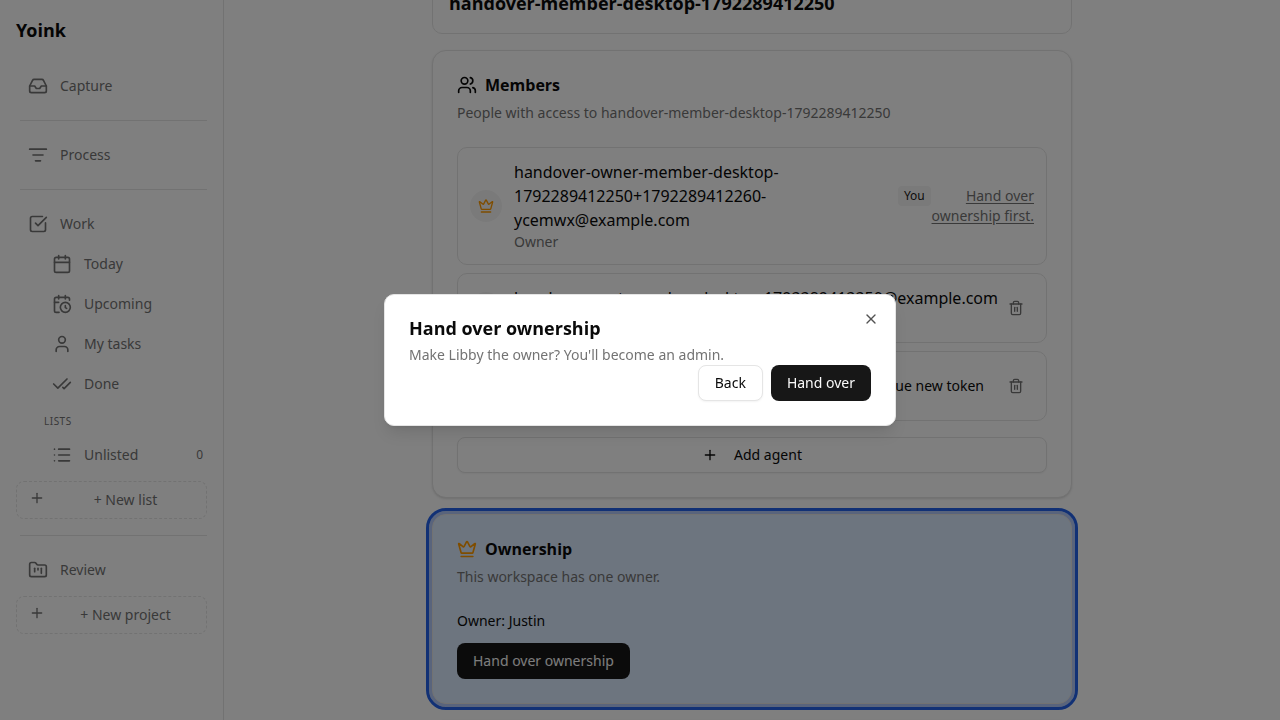
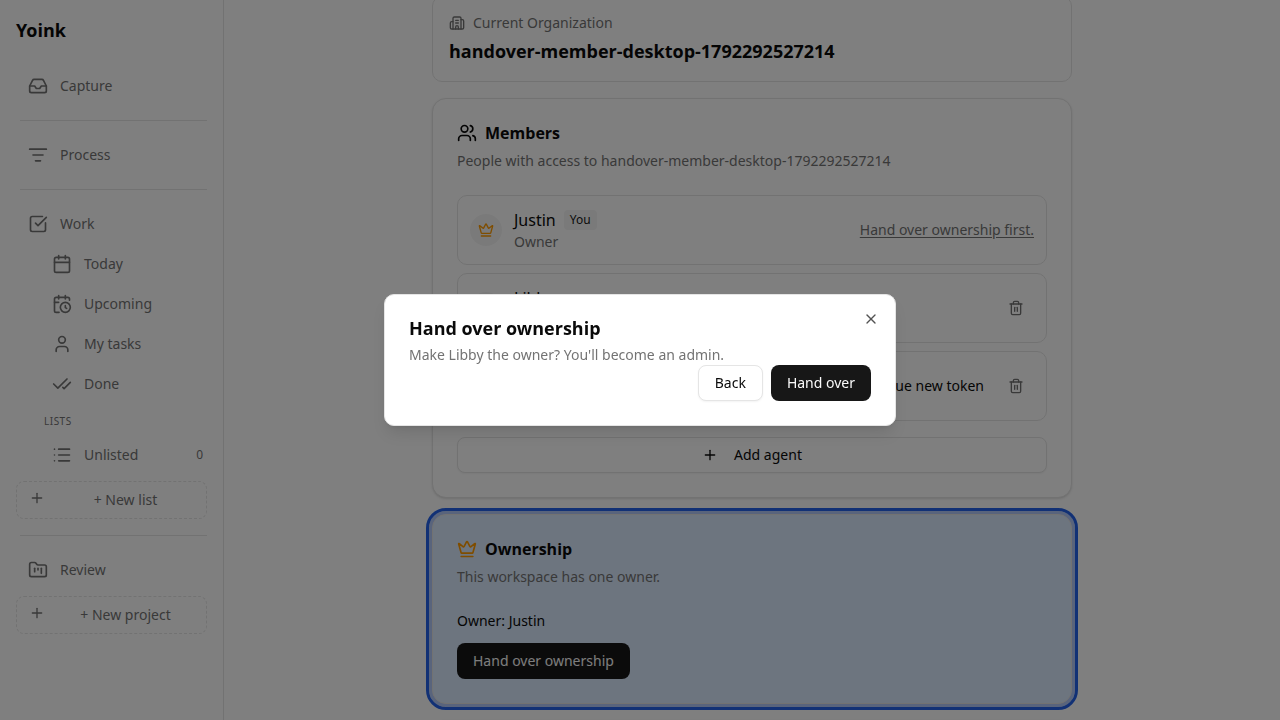
Polly: owner-row viewers, not-member copy, real member names.
The owner sees Hand over ownership first. on their row; everyone else
sees The owner can't be removed. TARGET_NOT_WORKSPACE_MEMBER is
That person isn't a member here. Members list shows the same names
the ownership card already read from listMembers.

Changed region(s): [[0.3438, 0.0, 0.6875, 0.3361], [0.6562, 0.2444, 0.8125, 0.3361], [0.6875, 0.3972, 0.7812, 0.4278]]

diff --git a/apps/web/src/components/members-section.tsx b/apps/web/src/components/members-section.tsx
@@ -12,9 +12,13 @@ import {
 import { Crown, Shield, User, Trash2, Loader2, AlertCircle, Users, Bot, Plus, Copy, Check, KeyRound } from 'lucide-react';
 import { Input } from '@yoink/ui-base/components/input';
 import { Label } from '@yoink/ui-base/components/label';
-import { listMembers, removeMember, mintAgent, memberLabel, type Member } from '@/api/auth';
+import { listMembers, removeMember, mintAgent, memberDisplayName, memberLabel, type Member } from '@/api/auth';
 import { tsrOrganizations } from '@/api/client';
-import { HAND_OVER_OWNERSHIP_FIRST_MESSAGE, HANDOVER_OWNERSHIP_PATH } from '@yoink/api-contracts';
+import {
+  HAND_OVER_OWNERSHIP_FIRST_MESSAGE,
+  HANDOVER_OWNERSHIP_PATH,
+  THE_OWNER_CANT_BE_REMOVED_MESSAGE,
+} from '@yoink/api-contracts';
 import { OwnershipCard } from '@/components/ownership-card';
 
 const errorBodyMessage = (body: unknown): string | null => {
@@ -203,7 +207,7 @@ export function MembersSection({
                       </div>
                       <div>
                         <div className="font-medium flex items-center gap-2">
-                          {memberLabel(member)}
+                          {member.kind === 'agent' ? memberLabel(member) : memberDisplayName(member)}
                           {isSelf && (
                             <span className="text-xs px-1.5 py-0.5 rounded bg-secondary text-secondary-foreground">
                               You
@@ -222,18 +226,22 @@ export function MembersSection({
                     </div>
 
                     <div className="flex items-center gap-1">
-                      {member.role === 'owner' && currentUserRole !== 'member' ? (
+                      {member.role === 'owner' ? (
                         <p
                           className="max-w-[14rem] text-right text-sm text-muted-foreground"
                           data-owner-cannot-remove=""
                         >
-                          <a
-                            href={HANDOVER_OWNERSHIP_PATH}
-                            data-handover-link=""
-                            className="underline underline-offset-2"
-                          >
-                            {HAND_OVER_OWNERSHIP_FIRST_MESSAGE}
-                          </a>
+                          {currentUserId === member.userId ? (
+                            <a
+                              href={HANDOVER_OWNERSHIP_PATH}
+                              data-handover-link=""
+                              className="underline underline-offset-2"
+                            >
+                              {HAND_OVER_OWNERSHIP_FIRST_MESSAGE}
+                            </a>
+                          ) : (
+                            THE_OWNER_CANT_BE_REMOVED_MESSAGE
+                          )}
                         </p>
                       ) : null}
                       {canReissue && member.kind === 'agent' && (

diff --git a/packages/acceptance-tests/src/use-cases/owner-handover.test.ts b/packages/acceptance-tests/src/use-cases/owner-handover.test.ts
@@ -57,6 +57,7 @@ usingDrivers(['playwright'] as const, (ctx) => {
         await setViewport(owner, viewport);
         await owner.openOrganizationSettings();
         await owner.shouldSeeOwnershipCard('Justin');
+        await owner.shouldSeeOwnerHandoverLink();
         await owner.frameOwnershipCard();
         await owner.saveWalkthroughScreenshot({ story: WALKTHROUGH_STORY, step: 'card' });
 
@@ -110,6 +111,7 @@ usingDrivers(['playwright'] as const, (ctx) => {
       await member.switchOrganization(org.id);
       await member.openOrganizationSettings();
       await member.shouldNotSeeOwnershipCard();
+      await member.shouldSeeOwnerCannotBeRemoved();
 
       const personal = await ctx.createActor(`personal-${stamp}@example.com`);
       await personal.openOrganizationSettings();
@@ -138,6 +140,8 @@ usingDrivers(['playwright'] as const, (ctx) => {
 
       for (const viewport of ['phone', 'desktop'] as const) {
         await setViewport(owner, viewport);
+        await owner.openOrganizationSettings();
+        await owner.shouldSeeOwnerHandoverLink();
         await owner.tryLeaveOrganizationFromSettings(org.name);
         await owner.saveWalkthroughScreenshot({
           story: WALKTHROUGH_STORY,
@@ -152,6 +156,7 @@ usingDrivers(['playwright'] as const, (ctx) => {
         adminInvite.code,
         `handover-link-admin-${Date.now()}@example.com`
       );
+      await ctx.admin.updateUser(workspaceAdmin.userId, { name: 'Polly' });
       await workspaceAdmin.switchOrganization(org.id);
 
       for (const viewport of ['phone', 'desktop'] as const) {

diff --git a/packages/acceptance-testing/src/drivers/playwright/page-objects.ts b/packages/acceptance-testing/src/drivers/playwright/page-objects.ts
@@ -1,5 +1,8 @@
 import { type Page, type CDPSession, type Locator, expect } from '@playwright/test';
-import { HAND_OVER_OWNERSHIP_FIRST_MESSAGE } from '@yoink/api-contracts';
+import {
+  HAND_OVER_OWNERSHIP_FIRST_MESSAGE,
+  THE_OWNER_CANT_BE_REMOVED_MESSAGE,
+} from '@yoink/api-contracts';
 import type { TaskFilter } from '../../dsl/types.js';
 import { dropPointForOpenTaskSlot } from './open-task-slot-drop.js';
 import {
@@ -654,10 +657,16 @@ export class SettingsPage {
     await expect(this.page.locator('button[title^="Remove "]')).toHaveCount(0);
   }
 
-  async shouldSeeOwnerCannotBeRemoved(): Promise<void> {
+  async shouldSeeOwnerHandoverLink(): Promise<void> {
     const copy = this.page.locator('[data-owner-cannot-remove]');
     await expect(copy).toHaveText(HAND_OVER_OWNERSHIP_FIRST_MESSAGE);
     await expect(copy.locator('[data-handover-link]')).toBeVisible();
+  }
+
+  async shouldSeeOwnerCannotBeRemoved(): Promise<void> {
+    const copy = this.page.locator('[data-owner-cannot-remove]');
+    await expect(copy).toHaveText(THE_OWNER_CANT_BE_REMOVED_MESSAGE);
+    await expect(copy.locator('[data-handover-link]')).toHaveCount(0);
   }
 
   ownershipCard() {

diff --git a/packages/api-contracts/src/schemas/organization.ts b/packages/api-contracts/src/schemas/organization.ts
@@ -18,6 +18,9 @@ export const HANDOVER_OWNERSHIP_PATH = '/settings#ownership';
 /** Anyone removing the owner — dedicated, not INSUFFICIENT_PERMISSIONS */
 export const OWNER_CANNOT_BE_REMOVED_MESSAGE = HAND_OVER_OWNERSHIP_FIRST_MESSAGE;
 
+/** Owner's row in Settings, shown to everyone except the owner. */
+export const THE_OWNER_CANT_BE_REMOVED_MESSAGE = "The owner can't be removed.";
+
 /** Owner leave — reader is a workspace person, not the app admin */
 export const OWNER_MUST_TRANSFER_MESSAGE = HAND_OVER_OWNERSHIP_FIRST_MESSAGE;
 
@@ -27,6 +30,7 @@ export const OWNER_MUST_TRANSFER_MAKE_OWNER_MESSAGE =
 
 export const BOT_CANNOT_TRANSFER_OWNERSHIP_MESSAGE = "Bots can't hand over ownership.";
 export const BOT_CANNOT_BE_OWNER_MESSAGE = "A bot can't be the owner.";
+export const TARGET_NOT_WORKSPACE_MEMBER_MESSAGE = "That person isn't a member here.";
 export const NOT_CURRENT_OWNER_MESSAGE = 'Only the owner can hand over ownership.';
 export const PERSONAL_WORKSPACE_TRANSFER_MESSAGE = "Personal workspaces can't be handed over.";
 export const ALREADY_OWNER_MESSAGE = "You're already the owner.";

diff --git a/apps/api/src/access/domain/organization-errors.ts b/apps/api/src/access/domain/organization-errors.ts
@@ -7,6 +7,7 @@ import {
   OWNER_MUST_TRANSFER_MAKE_OWNER_MESSAGE,
   OWNER_MUST_TRANSFER_MESSAGE,
   PERSONAL_WORKSPACE_TRANSFER_MESSAGE,
+  TARGET_NOT_WORKSPACE_MEMBER_MESSAGE,
 } from '@yoink/api-contracts';
 import type { UserNotFoundError, UserServiceError } from './user-errors.js';
 
@@ -19,6 +20,7 @@ export {
   OWNER_MUST_TRANSFER_MAKE_OWNER_MESSAGE,
   OWNER_MUST_TRANSFER_MESSAGE,
   PERSONAL_WORKSPACE_TRANSFER_MESSAGE,
+  TARGET_NOT_WORKSPACE_MEMBER_MESSAGE,
 };
 
 // ============================================================================
@@ -277,7 +279,7 @@ export const targetNotWorkspaceMemberError = (
   type: 'TARGET_NOT_WORKSPACE_MEMBER',
   userId,
   organizationId,
-  message: 'Owner must already be a member of the workspace',
+  message: TARGET_NOT_WORKSPACE_MEMBER_MESSAGE,
 });
 
 /** Organization must have at least one admin */

diff --git a/apps/api/src/access/domain/decide-set-owner.test.ts b/apps/api/src/access/domain/decide-set-owner.test.ts
@@ -1,5 +1,8 @@
 import { describe, it, expect } from 'vitest';
-import { BOT_CANNOT_BE_OWNER_MESSAGE } from '@yoink/api-contracts';
+import {
+  BOT_CANNOT_BE_OWNER_MESSAGE,
+  TARGET_NOT_WORKSPACE_MEMBER_MESSAGE,
+} from '@yoink/api-contracts';
 import { decideSetOwner } from './decide-set-owner.js';
 import type { OrganizationMembership } from './organization-membership.js';
 import type { User } from './user.js';
@@ -95,6 +98,9 @@ describe('decideSetOwner', () => {
       targetUser: human,
     });
     expect(result.isErr() && result.error.type).toBe('TARGET_NOT_WORKSPACE_MEMBER');
+    if (result.isErr() && result.error.type === 'TARGET_NOT_WORKSPACE_MEMBER') {
+      expect(result.error.message).toBe(TARGET_NOT_WORKSPACE_MEMBER_MESSAGE);
+    }
   });
 
   it('refuses a bot', () => {

diff --git a/apps/api/src/access/application/http-admin-routes.test.ts b/apps/api/src/access/application/http-admin-routes.test.ts
@@ -1,6 +1,9 @@
 import { describe, it, expect, beforeEach } from 'vitest';
 import type { FastifyInstance } from 'fastify';
-import { BOT_CANNOT_BE_OWNER_MESSAGE } from '@yoink/api-contracts';
+import {
+  BOT_CANNOT_BE_OWNER_MESSAGE,
+  TARGET_NOT_WORKSPACE_MEMBER_MESSAGE,
+} from '@yoink/api-contracts';
 import {
   createTestAppFull,
   TEST_ADMIN_PASSWORD,
@@ -478,7 +481,7 @@ describe('admin HTTP routes', () => {
       });
       expect(outsider.statusCode).toBe(400);
       expect(outsider.json().code).toBe('TARGET_NOT_WORKSPACE_MEMBER');
-      expect(outsider.json().message).toMatch(/member/i);
+      expect(outsider.json().message).toBe(TARGET_NOT_WORKSPACE_MEMBER_MESSAGE);
     });
 
     it('switches a member to admin and back when an owner remains', async () => {

diff --git a/apps/api/src/access/application/organization-routes.test.ts b/apps/api/src/access/application/organization-routes.test.ts
@@ -23,6 +23,7 @@ import {
   HANDOVER_OWNERSHIP_PATH,
   NOT_CURRENT_OWNER_MESSAGE,
   PERSONAL_WORKSPACE_TRANSFER_MESSAGE,
+  TARGET_NOT_WORKSPACE_MEMBER_MESSAGE,
   TRANSFER_OWNERSHIP_STORAGE_MESSAGE,
 } from '@yoink/api-contracts';
 import { tokenStorageError } from '../domain/auth-errors.js';
@@ -859,7 +860,7 @@ describe('organization routes', () => {
 
       expect(response.statusCode).toBe(400);
       expect(response.json().code).toBe('TARGET_NOT_WORKSPACE_MEMBER');
-      expect(response.json().message).toBe('Owner must already be a member of the workspace');
+      expect(response.json().message).toBe(TARGET_NOT_WORKSPACE_MEMBER_MESSAGE);
     });
 
     it('returns 401 without authentication', async () => {

diff --git a/apps/api/src/access/domain/decide-transfer-ownership.test.ts b/apps/api/src/access/domain/decide-transfer-ownership.test.ts
@@ -8,6 +8,7 @@ import {
   BOT_CANNOT_TRANSFER_OWNERSHIP_MESSAGE,
   NOT_CURRENT_OWNER_MESSAGE,
   PERSONAL_WORKSPACE_TRANSFER_MESSAGE,
+  TARGET_NOT_WORKSPACE_MEMBER_MESSAGE,
 } from './organization-errors.js';
 
 const orgId = '550e8400-e29b-41d4-a716-446655440001';
@@ -216,6 +217,9 @@ describe('decideTransferOwnership', () => {
       targetUser: outsider,
     });
     expect(result.isErr() && result.error.type).toBe('TARGET_NOT_WORKSPACE_MEMBER');
+    if (result.isErr() && result.error.type === 'TARGET_NOT_WORKSPACE_MEMBER') {
+      expect(result.error.message).toBe(TARGET_NOT_WORKSPACE_MEMBER_MESSAGE);
+    }
   });
 
   it('checks refusals in the specified order when several could apply', () => {

diff --git a/packages/acceptance-testing/src/dsl/actor.ts b/packages/acceptance-testing/src/dsl/actor.ts
@@ -409,7 +409,14 @@ export type BrowserActorOperations = {
   shouldNotSeeAnyRemoveButtons(): Promise<void>;
 
   /**
+   * Settings Organization tab: owner row shows the handover link.
+   * Shown only to the owner.
+   */
+  shouldSeeOwnerHandoverLink(): Promise<void>;
+
+  /**
    * Settings Organization tab: owner row shows the cannot-remove copy.
+   * Shown to everyone except the owner.
    */
   shouldSeeOwnerCannotBeRemoved(): Promise<void>;
 

diff --git a/packages/acceptance-testing/src/drivers/http/actor.ts b/packages/acceptance-testing/src/drivers/http/actor.ts
@@ -3444,6 +3444,10 @@ export const createHttpActor = (
       throw new UnsupportedOperationError('shouldNotSeeAnyRemoveButtons', 'http');
     },
 
+    async shouldSeeOwnerHandoverLink(): Promise<void> {
+      throw new UnsupportedOperationError('shouldSeeOwnerHandoverLink', 'http');
+    },
+
     async shouldSeeOwnerCannotBeRemoved(): Promise<void> {
       throw new UnsupportedOperationError('shouldSeeOwnerCannotBeRemoved', 'http');
     },

diff --git a/packages/acceptance-testing/src/drivers/playwright/actor.ts b/packages/acceptance-testing/src/drivers/playwright/actor.ts
@@ -6201,6 +6201,10 @@ export const createPlaywrightActor = (
       await settingsPage.shouldNotSeeAnyRemoveButtons();
     },
 
+    async shouldSeeOwnerHandoverLink(): Promise<void> {
+      await settingsPage.shouldSeeOwnerHandoverLink();
+    },
+
     async shouldSeeOwnerCannotBeRemoved(): Promise<void> {
       await settingsPage.shouldSeeOwnerCannotBeRemoved();
     },
